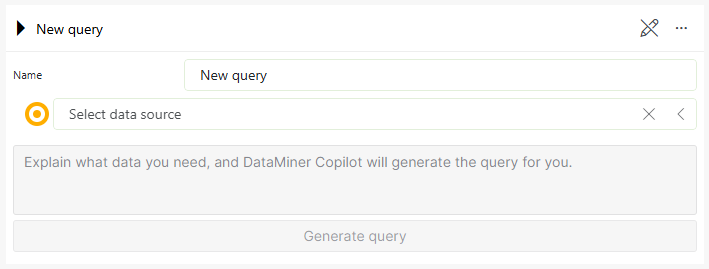
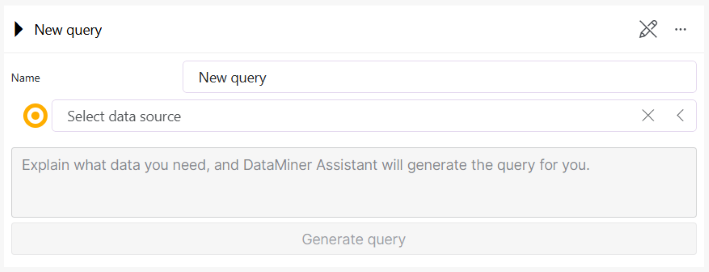
RN 44028

diff --git a/dataminer/Functions/Dashboards_and_Low_Code_Apps/GQI/Creating_GQI_query.md b/dataminer/Functions/Dashboards_and_Low_Code_Apps/GQI/Creating_GQI_query.md
@@ -66,7 +66,7 @@ From DataMiner 10.4.0 [CU13]/10.5.0 [CU1]/10.5.4 onwards<!--RN 42234-->, you can
 
 To do so, in a system where DataMiner Assistant has been deployed, when you click the "+" button to add a query, type your request in the textbox and click **Generate query**. DataMiner Assistant will then create the desired GQI query and generate a relevant query name.
 
-![NL2GQI](~/dataminer/images/NL2GQI.png)<br>*Natural language to GQI feature in DataMiner 10.5.4*
+![NL2GQI](~/dataminer/images/NL2GQI.png)<br>*Natural language to GQI feature in DataMiner 10.6.1*
 
 > [!TIP]
 > For more information about how to deploy this feature, see [DataMiner Assistant DxM](xref:Assistant_DxM).

diff --git a/dataminer/Functions/DataMiner_Assistant/NL2GQI.md b/dataminer/Functions/DataMiner_Assistant/NL2GQI.md
@@ -8,7 +8,7 @@ Starting from version 1.0.0, the [DataMiner Assistant](xref:Assistant_DxM) DxM w
 
 You can use this feature when [configuring queries in dashboards or low-code apps](xref:Creating_GQI_query#letting-dataminer-assistant-create-a-query).
 
-![NL2GQI](~/dataminer/images/NL2GQI.png)<br>*Natural language to GQI feature in DataMiner 10.5.4*
+![NL2GQI](~/dataminer/images/NL2GQI.png)<br>*Natural language to GQI feature in DataMiner 10.6.1*
 
 Examples of such natural languages request could be:
 
